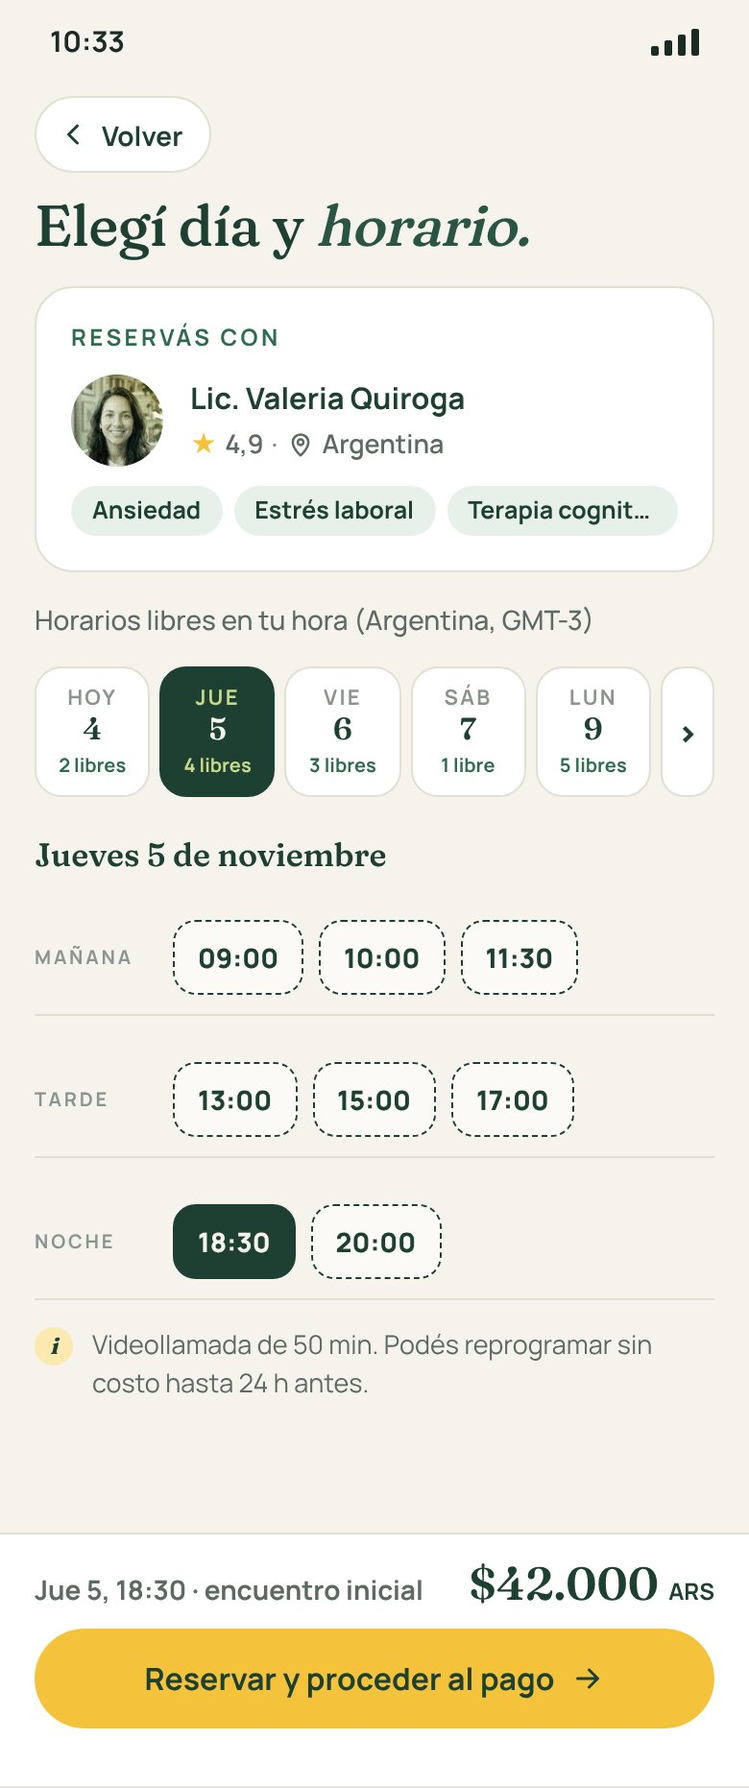
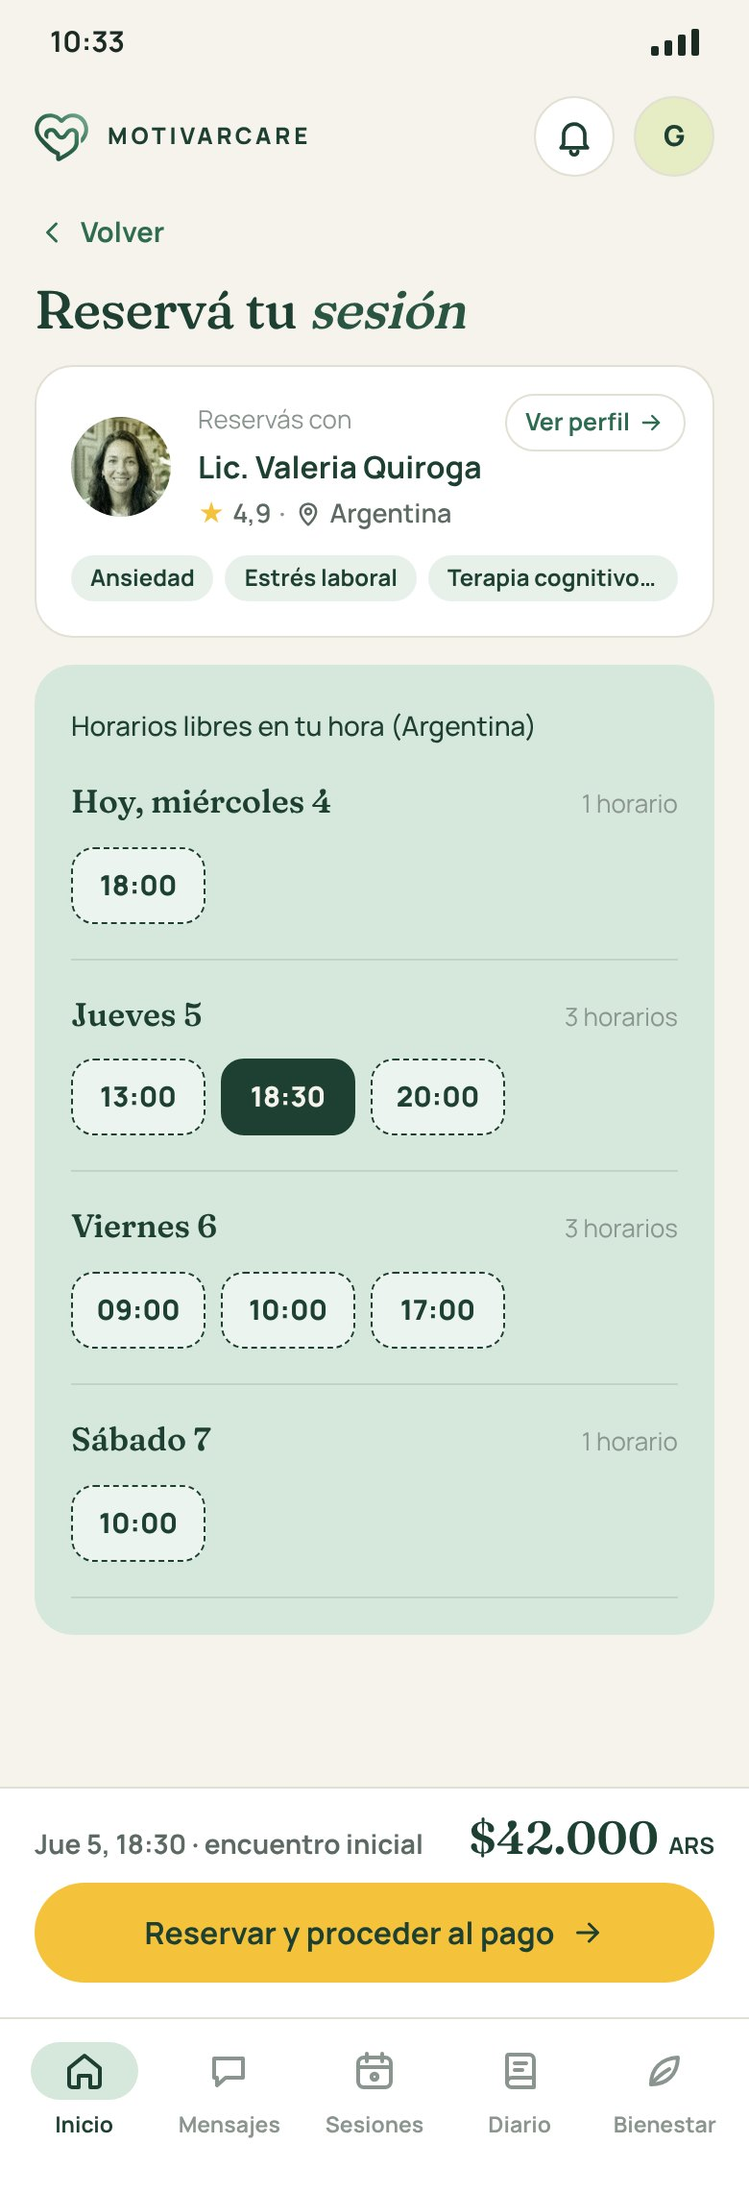
App del usuario: mockup 8 con días que se recorren con scroll
La reserva mantiene la estructura del mockup 2: la tarjeta verde se
expande en una lista de días (encabezados de sección) con sus horarios
punteados debajo, y a la derecha quedan la tarjeta del terapeuta y "Tu
sesión" con el botón. Una sesión por vez. Después del pago: "Reservar
sesión"; antes: "Reservar y proceder al pago".

Claude-Session: https://claude.ai/code/session_01WU1DRuLLvKJwMVuiPWLics

diff --git a/web/public/app-usuario/ronda-2.html b/web/public/app-usuario/ronda-2.html
@@ -716,6 +716,29 @@ ul.lista-simple { padding: 0; }
 .tel .franja { gap: 10px; padding: 10px 0; }
 .tel .et-franja { width: 62px; font-size: 10px; }
 .tel .hora-res { padding: 8px 12px; font-size: 14px; }
+
+/* Mockup 8 (v2): días con scroll y horarios debajo */
+.lista-horarios { position: relative; padding: 8px 28px 8px 26px; height: 760px; overflow: hidden; }
+.lista-horarios::after { content: ''; position: absolute; left: 0; right: 0; bottom: 0; height: 90px; background: linear-gradient(rgba(214,231,220,0), var(--salvia)); border-radius: 0 0 var(--rg) var(--rg); }
+.lista-scroll { display: flex; flex-direction: column; }
+.dia-sec { padding: 18px 0; border-bottom: 1px solid rgba(30,64,51,.12); }
+.dia-cab { display: flex; align-items: baseline; justify-content: space-between; margin-bottom: 12px; }
+.dia-cab b { font: 560 20px/1.2 var(--serif); font-variation-settings: 'SOFT' 60; color: var(--bosque); }
+.lista-horarios .horario { min-width: 84px; align-items: center; font-size: 15px; padding: 12px 16px; }
+.lista-horarios .horario.elegido { background: var(--bosque); color: var(--crema); border-style: solid; }
+.barra-scroll { position: absolute; right: 10px; top: 16px; width: 5px; height: 720px; border-radius: 9px; background: rgba(30,64,51,.1); }
+.barra-scroll i { display: block; width: 5px; height: 240px; border-radius: 9px; background: var(--salvia-fuerte); }
+.reservar-box { display: flex; flex-direction: column; gap: 8px; padding: 20px 22px; }
+.cuando-box { font: 500 22px/1.2 var(--serif); color: var(--bosque); }
+.reservar-box .boton { margin-top: 6px; }
+.r8tel > * { flex: none; }
+.marco.tel.largo .r8tel { padding-bottom: 290px; }
+.tel-lista { height: auto; padding: 16px 16px 6px; }
+.tel-lista::after { display: none; }
+.tel-lista .dia-cab b { font-size: 17px; }
+.tel-lista .horarios { display: flex; flex-wrap: wrap; gap: 8px; }
+.tel-lista .horario { min-width: 70px; padding: 10px 12px; font-size: 14.5px; }
+.marco.tel.largo .barra-pago.sobre-nav { position: absolute; left: 0; right: 0; bottom: 78px; border-bottom: 1px solid var(--linea); }
 </style>
 </head>
 <body>
@@ -1887,74 +1910,107 @@ ul.lista-simple { padding: 0; }
 
 <section class="lamina">
 <h2>8 · Reserva en escritorio · después del pago</h2>
-<p class="nota-r2">Se llega desde "Ver más horarios" o "Reservar sesión" en el Inicio, o después de pagar. Con sesiones ya pagadas, el botón amarillo dice "Reservar sesión" y aclara cuántas sesiones disponibles se usan. La ficha del terapeuta está siempre a la vista.</p>
-<div class="marco esc reserva" id="r2-8-escritorio">
-  <header class="cab-reserva">
+<p class="nota-r2">La pantalla de "Ver más horarios": la estructura del mockup 2, con la lista de horarios expandida. Los días se recorren con scroll; cada día es un encabezado con sus horarios libres punteados debajo. Se reserva una sesión por vez. Con sesiones ya pagadas, el botón dice "Reservar sesión" y aclara cuántas se usan.</p>
+<div class="marco esc" id="r2-8-escritorio">
+  <aside class="lateral">
     <div class="marca"><img src="../landing/img/logo.svg" alt="">MOTIVARCARE</div>
-    <span class="espacio"></span>
-  </header>
-  <div class="cuerpo-reserva r7">
-    <div>
-      <a class="enlace volver"><svg class="ico chico"><use href="#i-atras"/></svg>Volver</a>
-      <h1 class="t1" style="font-size:42px;margin-top:14px">Elegí día y <em>horario.</em></h1>
-      <p class="bajada" style="margin-top:10px">Horarios libres de Valeria, en tu hora (Argentina, GMT-3).</p>
-      <div class="sem-res"><span class="t3" style="font-size:18px">Noviembre</span><span class="tenue">4 al 11</span></div>
-      <div class="dias-res"><span class="dia-res"><b>Hoy</b><span>4</span><small>2 libres</small></span><span class="dia-res on"><b>Jue</b><span>5</span><small>4 libres</small></span><span class="dia-res"><b>Vie</b><span>6</span><small>3 libres</small></span><span class="dia-res"><b>Sáb</b><span>7</span><small>1 libre</small></span><span class="dia-res"><b>Lun</b><span>9</span><small>5 libres</small></span><span class="dia-res"><b>Mar</b><span>10</span><small>4 libres</small></span><span class="dia-res"><b>Mié</b><span>11</span><small>3 libres</small></span><span class="flecha-res">›</span></div>
-      <div class="dia-elegido">Jueves 5 de noviembre</div>
-      <div class="franja"><span class="et-franja">Mañana</span><div class="horas-res"><span class="hora-res">09:00</span><span class="hora-res">10:00</span><span class="hora-res">11:30</span></div></div><div class="franja"><span class="et-franja">Tarde</span><div class="horas-res"><span class="hora-res">13:00</span><span class="hora-res">15:00</span><span class="hora-res">17:00</span></div></div><div class="franja"><span class="et-franja">Noche</span><div class="horas-res"><span class="hora-res on">18:30</span><span class="hora-res">20:00</span></div></div>
-      <div class="frecuencia"><span class="et-orden">Reservar</span><span class="el-orden"><span class="on">Solo esta vez</span><span>Todas las semanas</span></span><span class="tenue">Con "Todas las semanas" se reserva el mismo horario con tus sesiones disponibles.</span></div>
+    <a class="nav-item activo"><svg class="ico"><use href="#i-inicio"/></svg>Inicio</a>
+    <a class="nav-item"><svg class="ico"><use href="#i-chat"/></svg>Mensajes</a>
+    <a class="nav-item"><svg class="ico"><use href="#i-sesiones"/></svg>Sesiones</a>
+    <a class="nav-item"><svg class="ico"><use href="#i-diario"/></svg>Diario</a>
+    <a class="nav-item"><svg class="ico"><use href="#i-bienestar"/></svg>Bienestar</a>
+    <div class="pie">
+      <a class="nav-item"><svg class="ico"><use href="#i-ayuda"/></svg>Ayuda</a>
+      <div class="apoyo"><svg class="ico chico"><use href="#i-tel"/></svg><div><b>Líneas de apoyo</b>Si necesitás hablar con alguien ahora, hay líneas gratuitas en tu país.</div></div>
     </div>
-    <aside class="tarjeta resumen r7">
-      <span class="t-fecha" style="margin-bottom:-6px">Reservás con</span>
-      <div class="con">
-        <img class="avatar" src="../landing/img/profesionales/valeria-quiroga.jpg" alt="" width="56" height="56">
-        <div><b>Lic. Valeria Quiroga</b><span class="califica r7"><span class="estrella">★</span> 4,9 <span class="sep">·</span> <span class="pais"><svg class="ico"><use href="#i-pin"/></svg>Argentina</span></span></div>
+  </aside>
+  <main class="principal">
+    <div class="barra">
+      <span class="espacio"></span>
+      <span class="boton-icono"><svg class="ico"><use href="#i-campana"/></svg></span>
+      <span class="cuenta"><span class="inicial">G</span>Gastón<svg class="ico chico"><use href="#i-abajo"/></svg></span>
+    </div>
+    <div class="contenido">
+      <a class="enlace volver" style="margin-bottom:10px"><svg class="ico chico"><use href="#i-atras"/></svg>Volver al inicio</a>
+      <div class="saludo" style="margin-bottom:18px"><h1 class="t1">Reservá tu próxima <em>sesión</em></h1><p class="bajada">Horarios libres de Valeria, en tu hora (Argentina, GMT-3). Elegí uno.</p></div>
+      <div class="grilla-inicio">
+        <article class="tarjeta salvia lista-horarios">
+          <div class="lista-scroll"><div class="dia-sec"><div class="dia-cab"><b>Hoy, miércoles 4</b><span class="tenue">1 horario</span></div><div class="horarios"><span class="horario">18:00</span></div></div><div class="dia-sec"><div class="dia-cab"><b>Jueves 5</b><span class="tenue">3 horarios</span></div><div class="horarios"><span class="horario">13:00</span><span class="horario elegido">18:30</span><span class="horario">20:00</span></div></div><div class="dia-sec"><div class="dia-cab"><b>Viernes 6</b><span class="tenue">3 horarios</span></div><div class="horarios"><span class="horario">09:00</span><span class="horario">10:00</span><span class="horario">17:00</span></div></div><div class="dia-sec"><div class="dia-cab"><b>Sábado 7</b><span class="tenue">1 horario</span></div><div class="horarios"><span class="horario">10:00</span></div></div><div class="dia-sec"><div class="dia-cab"><b>Lunes 9</b><span class="tenue">4 horarios</span></div><div class="horarios"><span class="horario">09:00</span><span class="horario">13:00</span><span class="horario">15:00</span><span class="horario">18:30</span></div></div><div class="dia-sec"><div class="dia-cab"><b>Martes 10</b><span class="tenue">3 horarios</span></div><div class="horarios"><span class="horario">10:00</span><span class="horario">17:00</span><span class="horario">20:00</span></div></div></div>
+          <span class="barra-scroll"><i></i></span>
+        </article>
+        <div class="columna-der">
+          <article class="tarjeta pro2">
+          <div class="pro2-cab"><a class="ver-perfil">Ver perfil<svg class="ico"><use href="#i-flecha"/></svg></a>
+            <img class="avatar" src="../landing/img/profesionales/valeria-quiroga.jpg" alt="" width="64" height="64">
+            <div>
+              <span class="tenue">Tu terapeuta</span>
+              <b>Lic. Valeria Quiroga</b>
+              <span class="califica"><span class="estrella">★</span> 4,9 <span class="sep">·</span> <span class="pais"><svg class="ico"><use href="#i-pin"/></svg>Argentina</span></span>
+            </div>
+          </div>
+          <div class="pills"><span class="chip">Ansiedad</span><span class="chip">Estrés laboral</span><span class="chip">Terapia cognitivo-conductual</span><span class="chip">Autoestima</span><span class="chip">Vínculos</span></div>
+          <p class="credenciales"><svg class="ico"><use href="#i-escudo"/></svg>Psicóloga clínica (UBA) · Matrícula verificada · 9 años de experiencia</p>
+          <div class="disponibles"><span class="et">Sesiones disponibles</span><div class="fila-disp"><b>2</b><span>del paquete de 4 con Valeria</span><span class="puntos4"><i class="u"></i><i class="u"></i><i></i><i></i></span></div></div>
+          
+        </article>
+          <div class="tarjeta reservar-box">
+            <span class="et-franja" style="width:auto;color:var(--verde-medio)">Tu sesión</span>
+            <b class="cuando-box">Jueves 5 de noviembre, 18:30</b>
+            <span class="peq">Hora de Argentina (GMT-3) · videollamada de 50 min</span>
+            <a class="boton primario grande ancho"><svg class="ico"><use href="#i-sesiones"/></svg>Reservar sesión</a>
+            <span class="peq" style="text-align:center;color:var(--bosque);font-weight:600">Usás 1 de tus 2 sesiones disponibles con Valeria</span>
+          </div>
+        </div>
       </div>
-      <div class="pills"><span class="chip">Ansiedad</span><span class="chip">Estrés laboral</span><span class="chip">Terapia cognitivo-conductual</span><span class="chip">Autoestima</span></div>
-      <p class="credenciales"><svg class="ico"><use href="#i-escudo"/></svg>Psicóloga clínica (UBA) · Matrícula verificada · 9 años de experiencia</p>
-      <div class="linea"></div>
-      <div class="tu-sesion"><span class="et-franja">Tu sesión</span><b>Jueves 5 de noviembre, 18:30</b><span class="peq">Hora de Argentina (GMT-3) · videollamada de 50 min</span></div>
-      <div class="item"><svg class="ico chico"><use href="#i-video"/></svg><span>El enlace te llega por mail y queda en Sesiones.</span></div>
-      <div class="item"><svg class="ico chico"><use href="#i-reloj"/></svg><span>Podés reprogramar sin costo hasta 24 h antes.</span></div>
-      <div class="linea"></div>
-      <a class="boton primario grande ancho"><svg class="ico"><use href="#i-sesiones"/></svg>Reservar sesión</a>
-      <span class="privado" style="justify-content:center;font-weight:600;color:var(--bosque)">Usás 1 de tus 2 sesiones disponibles con Valeria</span>
-    </aside>
-  </div>
+    </div>
+  </main>
 </div>
 </section>
 
 <section class="lamina">
 <h2>8 · Reserva en el teléfono · antes del pago</h2>
-<p class="nota-r2">Si la persona elige el horario antes de pagar, el botón amarillo dice "Reservar y proceder al pago" y la barra muestra el horario elegido y el precio.</p>
+<p class="nota-r2">Antes de pagar, el botón dice "Reservar y proceder al pago" y la barra muestra el horario elegido y el precio.</p>
 <div class="fila-tel">
 <div>
 <div class="marco tel largo" id="r2-8-telefono">
   <div class="estado-tel"><span>10:33</span><span class="senal"><i style="height:5px"></i><i style="height:8px"></i><i style="height:11px"></i><i style="height:14px"></i></span></div>
-  <div class="cabecera-tel" style="padding-bottom:4px">
-    <a class="volver-tel"><svg class="ico chico"><use href="#i-atras"/></svg>Volver</a>
+  <div class="cabecera-tel">
+    <div class="marca"><img src="../landing/img/logo.svg" alt="">MOTIVARCARE</div>
     <span class="espacio"></span>
+    <span class="boton-icono"><svg class="ico"><use href="#i-campana"/></svg></span>
+    <span class="inicial">G</span>
   </div>
-  <div class="cuerpo-tel r7tel" style="padding-top:8px">
-    <h1 class="t1" style="font-size:30px">Elegí día y <em>horario.</em></h1>
-    <div class="tarjeta resumen-tel">
-      <span class="t-fecha">Reservás con</span>
-      <div class="con">
-        <img class="avatar" src="../landing/img/profesionales/valeria-quiroga.jpg" alt="" width="48" height="48">
-        <div><b>Lic. Valeria Quiroga</b><span class="califica r7"><span class="estrella">★</span> 4,9 <span class="sep">·</span> <span class="pais"><svg class="ico"><use href="#i-pin"/></svg>Argentina</span></span></div>
+  <div class="cuerpo-tel r8tel">
+    <a class="enlace volver"><svg class="ico chico"><use href="#i-atras"/></svg>Volver</a>
+    <h1 class="t1" style="font-size:28px">Reservá tu <em>sesión</em></h1>
+    <article class="tarjeta pro2 tel-pro">
+      <div class="pro2-cab"><a class="ver-perfil">Ver perfil<svg class="ico"><use href="#i-flecha"/></svg></a>
+        <img class="avatar" src="../landing/img/profesionales/valeria-quiroga.jpg" alt="" width="52" height="52">
+        <div>
+          <span class="tenue">Reservás con</span>
+          <b>Lic. Valeria Quiroga</b>
+          <span class="califica"><span class="estrella">★</span> 4,9 <span class="sep">·</span> <span class="pais"><svg class="ico"><use href="#i-pin"/></svg>Argentina</span></span>
+        </div>
       </div>
-      <div class="pills"><span class="chip">Ansiedad</span><span class="chip">Estrés laboral</span><span class="chip">Terapia cognitivo-conductual</span><span class="chip">Autoestima</span></div>
-    </div>
-    <span class="peq">Horarios libres en tu hora (Argentina, GMT-3)</span>
-    <div class="dias-tel"><div class="dias-res"><span class="dia-res"><b>Hoy</b><span>4</span><small>2 libres</small></span><span class="dia-res on"><b>Jue</b><span>5</span><small>4 libres</small></span><span class="dia-res"><b>Vie</b><span>6</span><small>3 libres</small></span><span class="dia-res"><b>Sáb</b><span>7</span><small>1 libre</small></span><span class="dia-res"><b>Lun</b><span>9</span><small>5 libres</small></span><span class="flecha-res">›</span></div></div>
-    <div class="dia-elegido">Jueves 5 de noviembre</div>
-    <div class="franja"><span class="et-franja">Mañana</span><div class="horas-res"><span class="hora-res">09:00</span><span class="hora-res">10:00</span><span class="hora-res">11:30</span></div></div><div class="franja"><span class="et-franja">Tarde</span><div class="horas-res"><span class="hora-res">13:00</span><span class="hora-res">15:00</span><span class="hora-res">17:00</span></div></div><div class="franja"><span class="et-franja">Noche</span><div class="horas-res"><span class="hora-res on">18:30</span><span class="hora-res">20:00</span></div></div>
-    <div class="nota"><i>i</i><span>Videollamada de 50 min. Podés reprogramar sin costo hasta 24 h antes.</span></div>
+      <div class="pills"><span class="chip">Ansiedad</span><span class="chip">Estrés laboral</span><span class="chip">Terapia cognitivo-conductual</span><span class="chip">Autoestima</span><span class="chip">Vínculos</span></div>
+      
+    </article>
+    <article class="tarjeta salvia lista-horarios tel-lista">
+      <span class="peq" style="color:var(--bosque)">Horarios libres en tu hora (Argentina)</span>
+      <div class="dia-sec"><div class="dia-cab"><b>Hoy, miércoles 4</b><span class="tenue">1 horario</span></div><div class="horarios"><span class="horario">18:00</span></div></div><div class="dia-sec"><div class="dia-cab"><b>Jueves 5</b><span class="tenue">3 horarios</span></div><div class="horarios"><span class="horario">13:00</span><span class="horario elegido">18:30</span><span class="horario">20:00</span></div></div><div class="dia-sec"><div class="dia-cab"><b>Viernes 6</b><span class="tenue">3 horarios</span></div><div class="horarios"><span class="horario">09:00</span><span class="horario">10:00</span><span class="horario">17:00</span></div></div><div class="dia-sec"><div class="dia-cab"><b>Sábado 7</b><span class="tenue">1 horario</span></div><div class="horarios"><span class="horario">10:00</span></div></div>
+    </article>
   </div>
-  <div class="barra-pago fija">
+  <div class="barra-pago fija sobre-nav">
     <div class="total"><span>Jue 5, 18:30 · encuentro inicial</span><b>$42.000 <small style="font:700 12px var(--sans)">ARS</small></b></div>
     <a class="boton primario grande ancho">Reservar y proceder al pago<svg class="ico chico"><use href="#i-flecha"/></svg></a>
   </div>
+  <nav class="nav-tel">
+    <a class="activo"><span class="pastilla" style="position:relative"><svg class="ico"><use href="#i-inicio"/></svg></span>Inicio</a>
+    <a><span class="pastilla" style="position:relative"><svg class="ico"><use href="#i-chat"/></svg></span>Mensajes</a>
+    <a><span class="pastilla" style="position:relative"><svg class="ico"><use href="#i-sesiones"/></svg></span>Sesiones</a>
+    <a><span class="pastilla" style="position:relative"><svg class="ico"><use href="#i-diario"/></svg></span>Diario</a>
+    <a><span class="pastilla" style="position:relative"><svg class="ico"><use href="#i-bienestar"/></svg></span>Bienestar</a>
+  </nav>
 </div>
 </div>
 </div>

diff --git a/06-app-usuario/historial/ronda-2.md b/06-app-usuario/historial/ronda-2.md
@@ -22,7 +22,7 @@ Cada mockup se hace en escritorio (1440 × 1024) y en teléfono (390 de ancho). 
 | 5 | Elegí a tu profesional · la primera vez, sin cambiar el orden ni el filtro | Primera versión (escritorio y teléfono) |
 | 6 | Elegí a tu profesional · compatibilidad con prioridad a una especialidad | Segunda versión (escritorio y teléfono) |
 | 7 | Contratación · elegí tu paquete | Primera versión (escritorio y teléfono) |
-| 8 | Reserva · elegí día y horario (antes o después del pago) | Primera versión (escritorio y teléfono) |
+| 8 | Reserva · elegí día y horario (antes o después del pago) | Segunda versión (escritorio y teléfono) |
 
 ## Mockups
 
@@ -138,9 +138,9 @@ Cada mockup se hace en escritorio (1440 × 1024) y en teléfono (390 de ancho). 
   <figure><img src="/img/app-usuario/ronda-2/08-reservar-horario-escritorio.jpg" alt="Reserva de día y horario en escritorio, después del pago" loading="lazy"><figcaption>Escritorio · después del pago</figcaption></figure>
   <figure class="tel"><img src="/img/app-usuario/ronda-2/08-reservar-horario-telefono.jpg" alt="Reserva de día y horario en el teléfono, antes del pago" loading="lazy"><figcaption>Teléfono · antes del pago</figcaption></figure>
   <div class="texto">
-    <span class="chip-estado">Mockup 8 · primera versión</span>
+    <span class="chip-estado">Mockup 8 · segunda versión</span>
     <h3>Reserva · elegí día y horario</h3>
-    <p>La pantalla de "Ver más horarios". Se usa antes o después de pagar, y solo cambia el botón amarillo:</p>
+    <p>La pantalla de "Ver más horarios", con la estructura del mockup 2 expandida: los días se recorren con scroll y cada uno muestra sus horarios libres debajo. Se reserva una sesión por vez. Se usa antes o después de pagar, y cambia el botón amarillo:</p>
     <ul>
       <li><strong>Después del pago</strong> (escritorio): "Reservar sesión", con "Usás 1 de tus 2 sesiones disponibles con Valeria".</li>
       <li><strong>Antes del pago</strong> (teléfono): "Reservar y proceder al pago", con el horario y el precio.</li>
@@ -267,15 +267,15 @@ Se llega desde "Ver paquetes" en la elección de profesional (mockups 5 y 6). Pa
 
 ## 8 · Reserva: elegí día y horario
 
-Es la pantalla que se abre con "Ver más horarios" o "Reservar sesión" en el Inicio (mockup 2), y también antes o después de contratar (mockup 7). Sigue la estructura del mockup 7: sin navegación lateral, con "Volver" arriba y la **ficha del terapeuta siempre a la vista**, para que no haya dudas de con quién se reserva.
+Es la pantalla que se abre con "Ver más horarios" o "Reservar sesión" en el Inicio (mockup 2), y también antes o después de contratar (mockup 7). **Mantiene la estructura del mockup 2**, con la navegación, expandida para mostrar más días y horarios:
 
-- **Días:** una fila con los próximos días ("Hoy", jueves 5, viernes 6…) y cuántos horarios libres tiene cada uno, con una flecha para ver más. El día elegido va en verde bosque.
-- **Horarios:** los del día elegido, agrupados por franja (mañana, tarde y noche) y en tu hora. Los libres van con borde punteado; el elegido, en verde bosque.
-- **Frecuencia** (escritorio): "Solo esta vez" o "Todas las semanas". Con "Todas las semanas" se reserva el mismo horario con las sesiones disponibles.
-- **Ficha del terapeuta:** "Reservás con", la foto, el nombre, "★ 4,9 · Argentina", las especialidades y las credenciales. Debajo, "Tu sesión" con el día y la hora elegidos, y las aclaraciones del servicio (el enlace de la videollamada y la reprogramación sin costo hasta 24 h antes).
+- **"Volver al inicio"** arriba y el título "Reservá tu próxima sesión", con la aclaración de que los horarios están en tu hora.
+- **La tarjeta verde se expande en una lista que se recorre con scroll.** Cada día es un encabezado de sección ("Hoy, miércoles 4", "Jueves 5"…, con la cantidad de horarios) y debajo van sus horarios libres, con borde punteado. No hace falta tocar cada día para ver sus horarios. El horario elegido va en verde bosque.
+- **Una sesión por vez:** por ahora se reserva un solo horario (sin reservas semanales ni múltiples).
+- **Columna derecha:** la tarjeta del terapeuta (con sus especialidades, credenciales y sesiones disponibles), para que no haya dudas de con quién se reserva, y debajo **"Tu sesión"** con el día y la hora elegidos y el botón amarillo, siempre a la vista mientras se recorren los días.
 - **El botón amarillo cambia según el momento:**
   - **Después del pago:** "**Reservar sesión**", con "Usás 1 de tus 2 sesiones disponibles con Valeria" (se ve en el escritorio).
-  - **Antes del pago:** "**Reservar y proceder al pago**", y la barra muestra el horario elegido y el precio del encuentro inicial (se ve en el teléfono). Después de reservar, sigue la contratación (mockup 7).
+  - **Antes del pago:** "**Reservar y proceder al pago**", con el horario elegido y el precio del encuentro inicial en una barra fija sobre la navegación (se ve en el teléfono). La tarjeta dice "Reservás con", porque todavía no es su terapeuta. Después de reservar, sigue la contratación (mockup 7).
 
 ## Decisiones de la ronda
 
@@ -303,3 +303,4 @@ En la primera versión del mockup 5, "Especialidad" era un tercer criterio de or
 - Se suma el **mockup 5**, el mismo listado como se ve la primera vez (sin orden ni filtro cambiados). El de la prioridad a una especialidad pasa a ser el **mockup 6**.
 - **Sin accesos directos.** Se sacan las pills "Dar prioridad a:" de los mockups 5 y 6: duplicaban el menú, y "Otra…" solo volvía a abrirlo. El menú de "Compatibilidad" es el único lugar para dar prioridad a una especialidad. Con una especialidad elegida, el control dice su nombre ("Ansiedad"); al volver a "Según todas tus respuestas", vuelve a decir "Compatibilidad".
 - En las tarjetas de los terapeutas, el botón "Elegir" pasa a ser **"Ver paquetes"**, junto al enlace "Ver perfil y horarios", para alentar a contratar y pagar lo antes posible.
+- **Mockup 8, segunda versión:** en lugar de elegir un día por vez, la reserva mantiene la estructura del mockup 2 y los días se recorren con scroll, cada uno con sus horarios debajo. Se reserva una sesión por vez (se saca "Todas las semanas").
